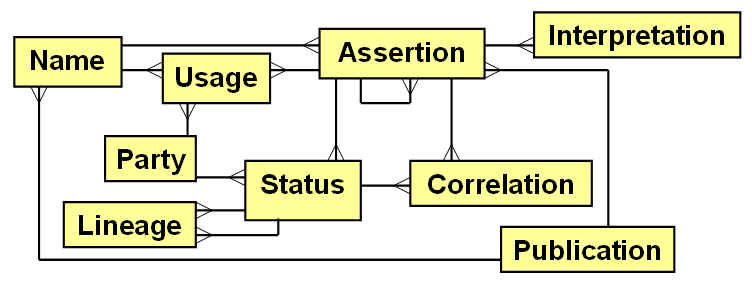
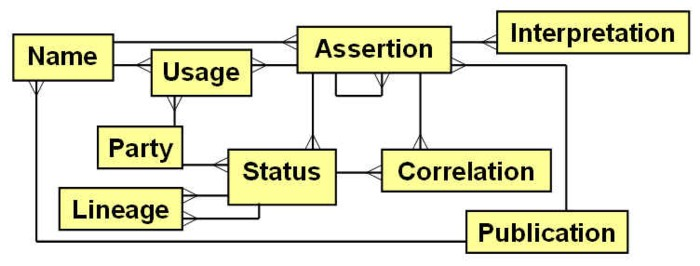
adjusted images to fit in main div on page

diff --git a/web/design/planttaxaoverview.html b/web/design/planttaxaoverview.html
@@ -73,8 +73,7 @@ href="http://www.natureserveexplorer.org/">NatureServe Explorer</a>. However,
       assertions as standard, and simultaneously recognize other assertions as 
       nonstandard. (4) Identification of the appropriate assertion to attach to 
       an organism does not immediately dictate which name should be applied to 
-      that assertion.</p> <img width=516 height=273
-src="../design/images/assertion.jpg"  />
+      that assertion.</p> <img src="../design/images/assertion.jpg"  />
     <p>We 
       designed a concept-based taxonomy data model and organized with ITIS and 
       the FGDC Biological Data Working Group <a href="http://biology.usgs.gov/fgdc.bio/FGDC_TaxNom.doc">a 
@@ -96,8 +95,7 @@ src="../design/images/assertion.jpg"  />
       is a party-specific application of a name to an assertion, which allows 
       names to change without necessarily changing the assertions tracked in the 
       database.</p>
-      <img width=752 height=286
-src="../design/images/taxmod.jpg"/>
+      <img src="../design/images/taxmod.jpg"/>
   
     <p>The 
       model we developed is similar to the data model proposed by the International 
